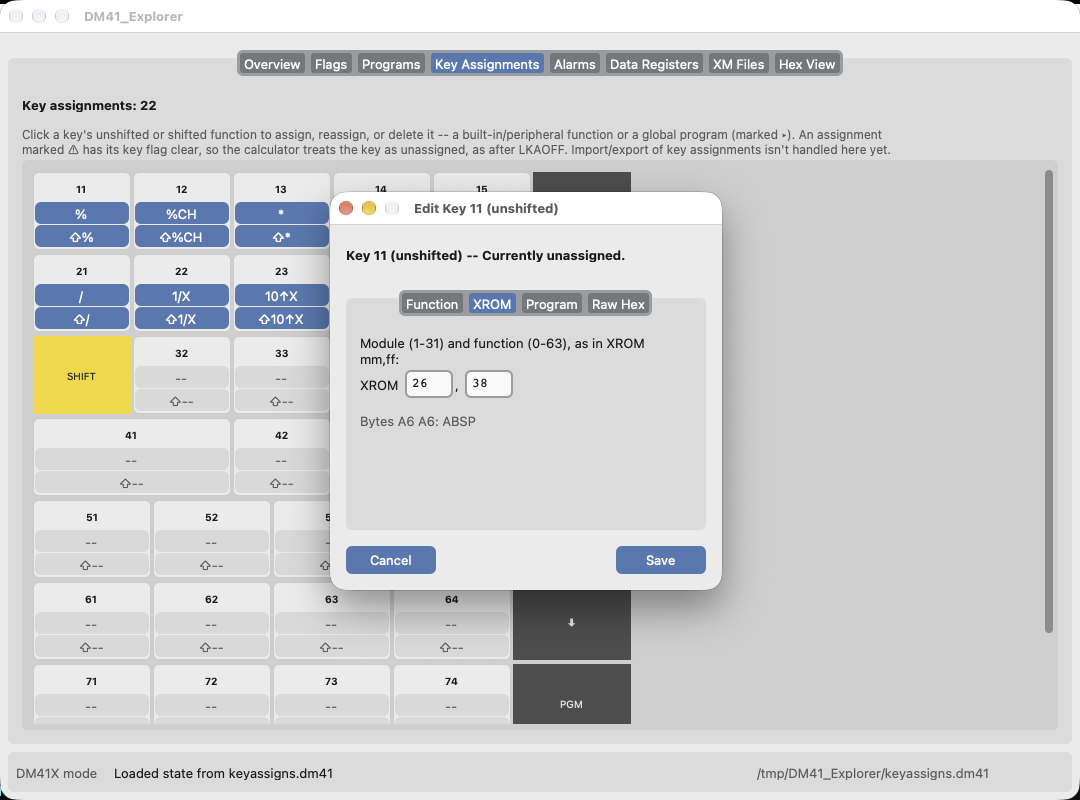
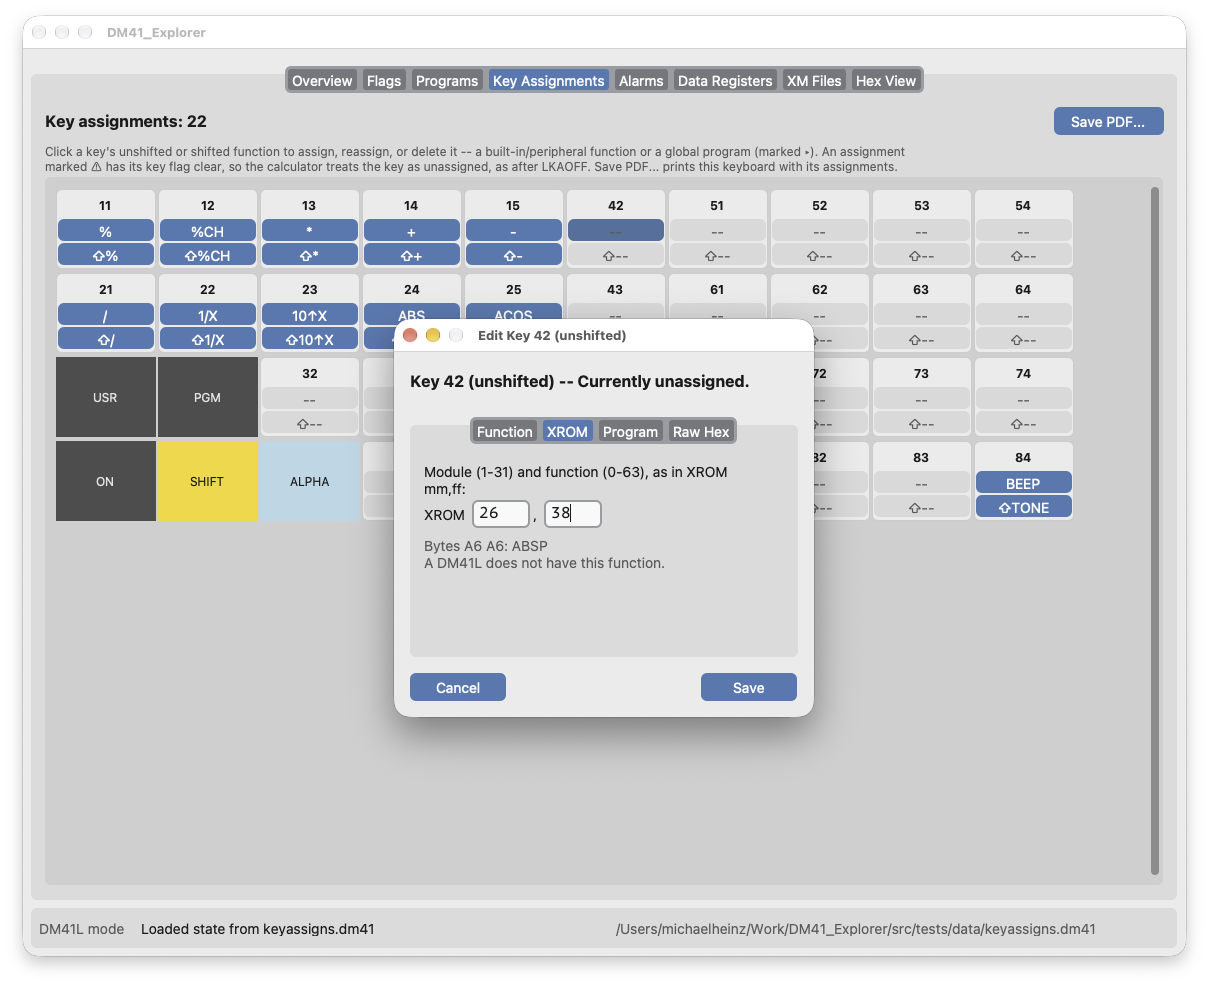
Describe Save PDF in the README and the keyboard shortcuts list
The README said Export did nothing outside the Data Registers, XM
Files and Programs tabs, then that it was Save PDF on Key Assignments;
it now says both in one statement. Help > Keyboard Shortcuts listed
Cmd/Ctrl+E only for those three tabs and now lists Save PDF... for Key
Assignments too. The Features list mentions the PDF.

The Key Assignments screenshots are updated, and the DM41X one is
renamed from key_assigns_hp41.png to key_assigns_dm41x.png, in the
README and in make_screenshots.py so a regeneration keeps the new name.

Part of #76.

diff --git a/tools/make_screenshots.py b/tools/make_screenshots.py
@@ -56,7 +56,7 @@ SHOTS = {
     "flags_view": ("dm41x_manyfiles.dm41", "Flags", DM41X_MODE, {}),
     "program_view": ("dm41x_manyfiles.dm41", "Programs", DM41X_MODE, {}),
     "key_assigns_dm41l": ("keyassigns.dm41", "Key Assignments", DM41L_MODE, {}),
-    "key_assigns_hp41": ("keyassigns.dm41", "Key Assignments", DM41X_MODE, {}),
+    "key_assigns_dm41x": ("keyassigns.dm41", "Key Assignments", DM41X_MODE, {}),
     "registers_view": ("dm41x_manyfiles.dm41", "Data Registers", DM41X_MODE, {}),
     "xm_files": ("dm41x_manyfiles.dm41", "XM Files", DM41X_MODE, {}),
     "hex_view": ("dm41x_manyfiles.dm41", "Hex View", DM41X_MODE, {"first_row": 0x178}),

diff --git a/src/gui/help_dialog.py b/src/gui/help_dialog.py
@@ -62,6 +62,14 @@ _SECTIONS = [
             ("Import...", f"{_ACC}+I"),
         ],
     ),
+    (
+        # The same Cmd/Ctrl+E, forwarded to the Key Assignments tab's own
+        # header button (issue #76). It has no Import.
+        "Key Assignments tab",
+        [
+            ("Save PDF...", f"{_ACC}+E"),
+        ],
+    ),
 ]
 
 DIALOG_WIDTH = 460

diff --git a/README.md b/README.md
@@ -17,9 +17,9 @@ serial console or USB disk interface.
   text, or raw hex.
 - **XM Files** — list, add, edit, and remove files stored in extended memory
   (Data, ASCII, and Program types).
-- **Key Assignments** - view, add, edit, and remove user key assignments,
+- **Key Assignments** — view, add, edit, and remove user key assignments,
   including any XROM function, by name or by its module and function
-  numbers.
+  numbers, and save a printable PDF diagram of the keyboard.
 - **XROM libraries** — names for the functions of the DM41X's application
   pacs (Math, Stat, Advantage, PPC and the rest) and of any other ROM you add
   as a `.mod` file or an hp41uc XROM list (Tools > XROM Libraries).
@@ -142,7 +142,7 @@ Shift- or Cmd/Ctrl-click to select their rows before choosing Export.
 
 ![Key Assigns - DM41L layout](resources/screenshots/key_assigns_dm41l.png)
 
-![Key Assigns - DM41X layout](resources/screenshots/key_assigns_hp41.png)
+![Key Assigns - DM41X layout](resources/screenshots/key_assigns_dm41x.png)
 
 The Key Assignments tab allows you to view and edit the user key assignments in
 the loaded state. It has two sub-tabs: the first shows the keys in the DM41L
@@ -165,11 +165,12 @@ edit that key's current assignment. You can choose:
 
 ![Key assignment dialog, XROM tab](resources/screenshots/key_assign_xrom.png)
 
-**Save PDF...** (or Cmd/Ctrl+E) saves a printable diagram of the keyboard,
-titled with the state's name, with every assignment on its key: shifted assignments on a gold strip across
-the top of the key, unshifted ones below. Global programs are marked with ▸,
-and an assignment whose key flag is clear (as after `LKAOFF`) has a dashed
-outline. A list of all the assignments follows on a second page.
+**Save PDF…** (or Cmd/Ctrl+E) saves a printable diagram of the keyboard,
+titled with the state's name, with every assignment on its key: shifted
+assignments on a gold strip across the top of the key, unshifted ones below.
+Global programs are marked with ▸, and an assignment whose key flag is clear
+(as after `LKAOFF`) has a dashed outline. A list of all the assignments
+follows on a second page.
 
 ### XROM Libraries
 
@@ -236,9 +237,10 @@ macOS uses `Cmd` for the same shortcuts.
 | Export... | Ctrl+E | Cmd+E |
 | Import... | Ctrl+I | Cmd+I |
 
-Export and Import act on whichever tab is currently active, and only take
-effect on the Data Registers, XM Files, and Programs tabs — elsewhere they're
-a no-op. On the Key Assignments tab, Export is Save PDF.
+Export and Import act on whichever tab is currently active. Export works on
+the Data Registers, XM Files, Programs, and Key Assignments tabs (where it is
+Save PDF…), and Import on the Data Registers, XM Files, and Programs tabs;
+elsewhere they do nothing.
 
 The five Connect-menu shortcuts (Connect / Reconnect, Disconnect, Set
 Calculator Time, Get State, Send State) work in **DM41L mode** only. A DM41X
